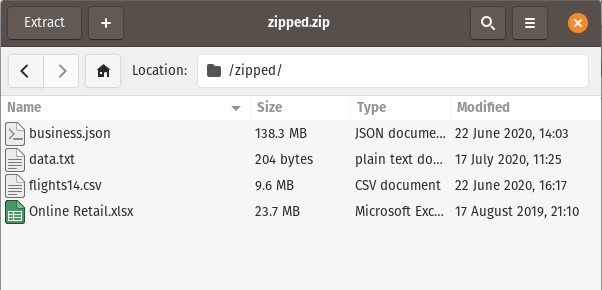
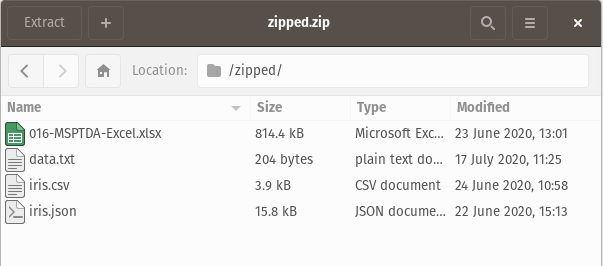
deploy: 6040e0dfebdaee6b385b7f1c5d25518447dc7470

diff --git a/python/datatable/2020/07/21/Extract-DataFrame-from-Compressed-Data-into-Pandas.html b/python/datatable/2020/07/21/Extract-DataFrame-from-Compressed-Data-into-Pandas.html
@@ -539,89 +539,53 @@ window.onload = wrap_img;
   <thead>
     <tr style="text-align: right;">
       <th></th>
-      <th>year</th>
-      <th>month</th>
-      <th>day</th>
-      <th>dep_delay</th>
-      <th>arr_delay</th>
-      <th>carrier</th>
-      <th>origin</th>
-      <th>dest</th>
-      <th>air_time</th>
-      <th>distance</th>
-      <th>hour</th>
+      <th>sepal_length</th>
+      <th>sepal_width</th>
+      <th>petal_length</th>
+      <th>petal_width</th>
+      <th>species</th>
     </tr>
   </thead>
   <tbody>
     <tr>
       <th>0</th>
-      <td>2014</td>
-      <td>1</td>
-      <td>1</td>
-      <td>14</td>
-      <td>13</td>
-      <td>AA</td>
-      <td>JFK</td>
-      <td>LAX</td>
-      <td>359</td>
-      <td>2475</td>
-      <td>9</td>
+      <td>5.1</td>
+      <td>3.5</td>
+      <td>1.4</td>
+      <td>0.2</td>
+      <td>setosa</td>
     </tr>
     <tr>
       <th>1</th>
-      <td>2014</td>
-      <td>1</td>
-      <td>1</td>
-      <td>-3</td>
-      <td>13</td>
-      <td>AA</td>
-      <td>JFK</td>
-      <td>LAX</td>
-      <td>363</td>
-      <td>2475</td>
-      <td>11</td>
+      <td>4.9</td>
+      <td>3.0</td>
+      <td>1.4</td>
+      <td>0.2</td>
+      <td>setosa</td>
     </tr>
     <tr>
       <th>2</th>
-      <td>2014</td>
-      <td>1</td>
-      <td>1</td>
-      <td>2</td>
-      <td>9</td>
-      <td>AA</td>
-      <td>JFK</td>
-      <td>LAX</td>
-      <td>351</td>
-      <td>2475</td>
-      <td>19</td>
+      <td>4.7</td>
+      <td>3.2</td>
+      <td>1.3</td>
+      <td>0.2</td>
+      <td>setosa</td>
     </tr>
     <tr>
       <th>3</th>
-      <td>2014</td>
-      <td>1</td>
-      <td>1</td>
-      <td>-8</td>
-      <td>-26</td>
-      <td>AA</td>
-      <td>LGA</td>
-      <td>PBI</td>
-      <td>157</td>
-      <td>1035</td>
-      <td>7</td>
+      <td>4.6</td>
+      <td>3.1</td>
+      <td>1.5</td>
+      <td>0.2</td>
+      <td>setosa</td>
     </tr>
     <tr>
       <th>4</th>
-      <td>2014</td>
-      <td>1</td>
-      <td>1</td>
-      <td>2</td>
-      <td>1</td>
-      <td>AA</td>
-      <td>JFK</td>
-      <td>LAX</td>
-      <td>350</td>
-      <td>2475</td>
-      <td>13</td>
+      <td>5.0</td>
+      <td>3.6</td>
+      <td>1.4</td>
+      <td>0.2</td>
+      <td>setosa</td>
     </tr>
   </tbody>
 </table>
